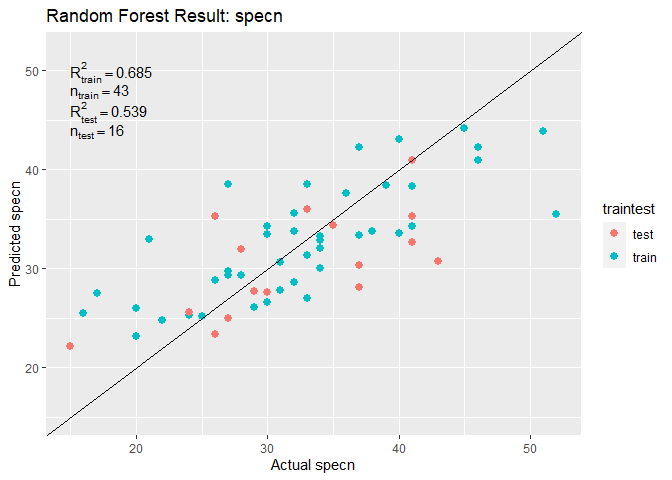
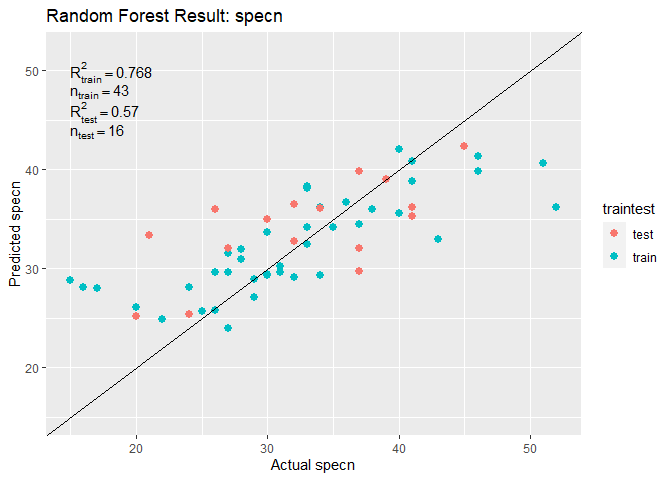
update readme

diff --git a/README.md b/README.md
@@ -1,7 +1,7 @@
 
 <!-- README.md is generated from README.Rmd. Please edit that file -->
 
-# gRasslands <img align="right" src="man/figures/logo_susalps_kl.jpg" alt="SUSALPS Logo" style="width: 400px;"/>
+# gRasslands <a href="https://www.susalps.de/en/"><img align="right" src="man/figures/logo_susalps_kl.jpg" alt="SUSALPS Logo" />
 
 <!-- badges: start -->
 <!-- badges: end -->
@@ -21,12 +21,12 @@ package.
 
 Map of Study Area some logos somewhere?
 
-## Installation
+## 0. Installation
 
-You can install the development version of gRasslands like so:
+You can install the development version of gRasslands via `devtools`:
 
 ``` r
-# FILL THIS IN! HOW CAN PEOPLE INSTALL YOUR DEV PACKAGE?
+devtools::install_github("Siedrid/gRasslands")
 ```
 
 ## I. Data Preprocessing
@@ -36,9 +36,12 @@ preprocessed to train your random forest model. This is shown at the
 hand of Sentinel-2 surface reflectances extracted at 60 plot locations
 in Lower Franconia, Bavaria. The Sentinel-2 scenes were atmospherically
 corrected using the MAJA processor (<https://www.cesbio.cnrs.fr/maja/>).
-The Sentinel-2 Level 2A product is for some areas freely distributed on
-the THEIA portal:
+For some areas Sentinel-2 L2A products (MAJA preprocessed) are freely
+distributed on the THEIA portal:
 <https://theia.cnes.fr/atdistrib/rocket/#/search?collection=SENTINEL2>
+Of course, also the Sentinel-2 L2A products distributed via the
+Copernicus Browser or the Google Earth Engine are suitable for this
+analysis.
 
 ``` r
 library(gRasslands)
@@ -81,7 +84,7 @@ forest model.
 ``` r
 int.ts <- interpolate.ts(refl.df, plot.column = "plot_names") # interpolate missing values
 int.ts <- na.omit(int.ts)
-monthly_max.df <- comp_monthly(int.ts, date.column = "dat", stat = "max") # composite to monthly maximum reflectances
+monthly_max.df <- comp_monthly(int.ts, date.column = "dat", stat = "min") # composite to monthly maximum reflectances
 monthly_max.df.piv <- pivot.df(monthly_max.df) # pivot the data into wide table
 ```
 
@@ -91,7 +94,7 @@ alpha-diversity indices. Species inventories were collected in the same
 together in step II.
 
 ``` r
-# get_diversity(...)
+# plot of map with shapefile
 summary(div.df)
 #>   plot_names           shannon          simpson           specn      
 #>  Length:60          Min.   :0.8192   Min.   :0.2763   Min.   :15.00  
@@ -100,6 +103,7 @@ summary(div.df)
 #>                     Mean   :2.3205   Mean   :0.7863   Mean   :32.22  
 #>                     3rd Qu.:2.7361   3rd Qu.:0.8916   3rd Qu.:37.25  
 #>                     Max.   :3.5101   Max.   :0.9529   Max.   :52.00
+#div.sf <- div2sf(div.df, x.column = "X", y.column = "Y",epsg_code = 25832)
 ```
 
 The alpha diversity indices used are the species number, shannon and
@@ -107,9 +111,6 @@ simpson index. Many studies have shown, that species number is the best
 response variable, therefore this alpha-diversity indice will be used in
 the following random forest model. The code to calculate these indices
 is provided in the `data-raw` folder.
-
-You’ll still need to render `README.Rmd` regularly, to keep `README.md`
-up-to-date. `devtools::build_readme()` is handy for this.
 
 ## II. Train and Test Random Forest
 
@@ -119,13 +120,15 @@ limited by less acquisitions, which could potentially impact our results
 negatively.
 
 ``` r
+s = 91
+biodiv_ind = "specn"
 
 m.nowinter <- c("03$", "04$", "05$", "06$","07$", "08$", "09$")
 data_frame.nowinter <- RF_predictors(monthly_max.df.piv, m.nowinter) # use only months from March to September
-rf_data <- preprocess_rf_data(data_frame.nowinter, div.df, "specn") # merge reflectance and alpha diversity dataframe
+rf_data <- preprocess_rf_data(data_frame.nowinter, div.df, biodiv_ind) # merge reflectance and alpha diversity dataframe
 
-train_index <- get_train_index(rf_data, s = 10) # split samples into training and testing (70:30)
-forest <- RF(rf_data, train_index = train_index, s = 10) # train Random Forest
+train_index <- get_train_index(rf_data, s = s) # split samples into training and testing (70:30)
+forest <- RF(rf_data, train_index = train_index, s = s) # train Random Forest
 #> Lade nötiges Paket: ggplot2
 #> Lade nötiges Paket: lattice
 print(forest)
@@ -136,20 +139,20 @@ print(forest)
 #> 
 #> No pre-processing
 #> Resampling: Cross-Validated (10 fold, repeated 5 times) 
-#> Summary of sample sizes: 40, 39, 39, 39, 38, 39, ... 
+#> Summary of sample sizes: 38, 38, 40, 39, 40, 38, ... 
 #> Resampling results across tuning parameters:
 #> 
 #>   mtry  RMSE      Rsquared   MAE     
-#>     2   5.189678  0.7091475  4.223472
-#>    25   4.971855  0.6854268  4.234894
-#>    48   5.011213  0.6817031  4.292484
-#>    71   5.047436  0.6754444  4.328216
-#>    94   5.067761  0.6744548  4.354348
-#>   117   5.090105  0.6728903  4.377323
-#>   140   5.151373  0.6663269  4.441661
+#>     2   5.212698  0.7680533  4.075929
+#>    25   5.307270  0.7299904  4.297927
+#>    48   5.341733  0.7183568  4.353222
+#>    71   5.399386  0.7100851  4.409252
+#>    94   5.439054  0.7046677  4.450530
+#>   117   5.481573  0.6931790  4.479744
+#>   140   5.470326  0.7015584  4.472773
 #> 
 #> RMSE was used to select the optimal model using the smallest value.
-#> The final value used for the model was mtry = 25.
+#> The final value used for the model was mtry = 2.
 ```
 
 In the output of the `forest` variable, it is summarized that 43 samples
@@ -165,7 +168,7 @@ methods, and month combinations or running the model multiple times with
 different seeds.
 
 ``` r
-summarize.RF(forest, rf_data, div.df, train_index, "specn", plot_labels = F) # returns scatter plot
+RF.summary(forest, rf_data, div.df, train_index, "specn", plot_labels = F) # returns scatter plot
 ```
 
 <img src="man/figures/README-Random Forest 2-1.png" width="70%" />
@@ -210,15 +213,24 @@ spatial predictions is provided in the following.
 
 # select months as predictors 
 m <- c("03.tif", "04.tif", "05.tif", "06.tif","07.tif", "08.tif", "09.tif")
-#fls <- list_comp_months(comp_path, m)
+comp_path <- "E:/Grasslands_BioDiv/Data/S2_min_composites"
+fls <- list_comp_months(comp_path, m)
 
-#max.brick <- stack_S2_months(fls, comp_path, m, "G:/Grasslands_BioDiv/Data/SpatialRF_Data/Monthly_Maximum_comp-nowinter2.tif")
+max.brick <- stack_S2_months(fls, comp_path)
 
-#s2_pred <- terra::predict(max_comp.brick, model = forest, na.rm = T)
-#s2_pred.masked <- mask.grasslands(s2_pred, grass.mask)
+s2_pred <- terra::predict(max.brick, model = forest, na.rm = T)
 
-#plt.diversity(s2_pred.masked)
+# Mask non-Grasslands with Copernicus Grassland Layer
+grass.mask.path <- "E:/Grasslands_BioDiv/Data/Copernicus_Grassland/GRA_2018_010m_03035_V1_0.tif"
+grass.mask <- terra::rast(grass.mask.path)
+
+s2_pred.masked <- mask.grasslands(s2_pred, grass.mask)
+#> |---------|---------|---------|---------|=========================================                                          |---------|---------|---------|---------|=========================================                                          
+
+plt.diversity(s2_pred.masked, biodiv_ind = "specn")
 ```
+
+<img src="man/figures/README-Spatial Prediction Preprocessing-1.png" width="70%" />
 
 `comp_path` is the path to the directory, where the monthly raster
 composites are stored. After creating a list of these raster composites,
@@ -236,6 +248,11 @@ Exploratories Information System: <https://www.bexis.uni-jena.de/> This
 is an important step towards a broader understanding of grassland sites,
 how to manage them and protect their valuable ecosystem services.
 
-![Worflow of
-Analysis](man/figures/GrasslandsBiodiv_Flowchart.drawio.png) Contact
-Details
+<img src="man/figures/GrasslandsBiodiv_Flowchart.drawio.png" alt="Analysis Workflow" style="width: 400px;"/>
+
+### Literature:
+
+### Contact Details:
+
+Laura Obrecht: <laura.obrecht@stud-mail.uni-wuerzburg.de> Dr. Sophie
+Reinermann: <sophie.reinermann@dlr.de>
